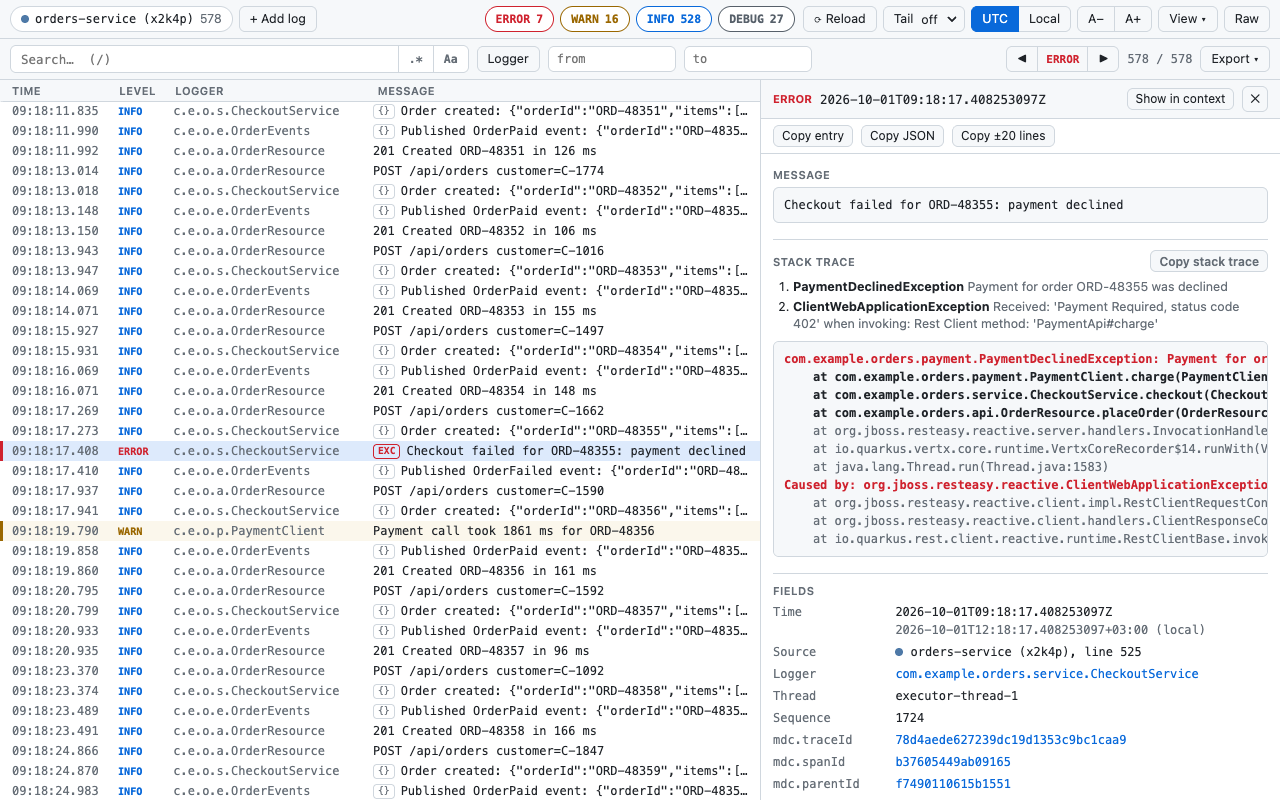
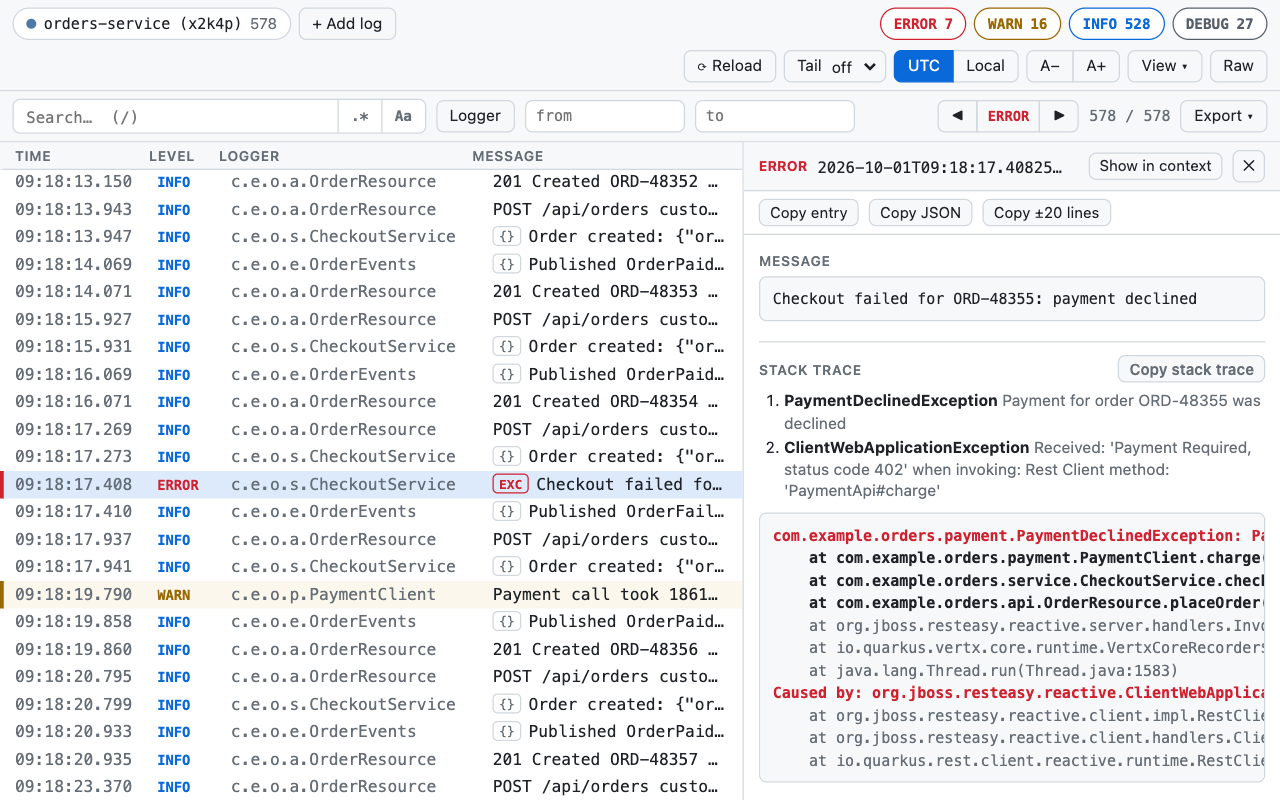
Apply Chrome Web Store best practices
- Strict extension CSP: default-src 'self', connect-src/object-src none;
  options page styles moved to options.css
- Validate runtime messages (own extension only, known actions,
  well-formed origin)
- Store icon follows the 96px artwork + 16px padding rule, with a light
  glow for dark backgrounds
- Five legible screenshots (1024x640 @1.25x), marquee 1400x560 and a
  brand-first small promo tile
- Fix: message column no longer collapses when the details panel is open
  and several sources are shown; fixed columns on phones
- Fix: details panel scrolls to top when another entry is selected
- PRIVACY.md: Chrome Web Store User Data Policy / Limited Use statement
- Store checklist: declare "Website content" (local handling must be
  disclosed), 2-Step Verification, review and Edge Add-ons notes

Changed region(s): [[0.0, 0.0, 1.0, 1.0]]

diff --git a/static/options.html b/static/options.html
@@ -5,32 +5,7 @@
     <meta name="viewport" content="width=device-width, initial-scale=1" />
     <meta name="color-scheme" content="light dark" />
     <title>LogPane – Options</title>
-    <style>
-      :root {
-        --bg: #ffffff; --fg: #1f2328; --dim: #656d76; --border: #d0d7de; --accent: #0969da; --err: #cf222e; --panel: #f6f8fa;
-      }
-      @media (prefers-color-scheme: dark) {
-        :root { --bg: #0d1117; --fg: #e6edf3; --dim: #8d96a0; --border: #30363d; --accent: #4493f8; --err: #f85149; --panel: #161b22; }
-      }
-      body { background: var(--bg); color: var(--fg); font: 14px/1.5 system-ui, -apple-system, "Segoe UI", sans-serif; margin: 0; }
-      main { max-width: 720px; margin: 0 auto; padding: 32px 16px; }
-      h1 { font-size: 20px; margin: 0 0 4px; }
-      h2 { font-size: 15px; margin: 28px 0 8px; }
-      p { margin: 6px 0; }
-      .dim { color: var(--dim); }
-      code { font: 12.5px ui-monospace, SFMono-Regular, Menlo, Consolas, monospace; background: var(--panel); padding: 1px 5px; border-radius: 4px; }
-      ul { list-style: none; padding: 0; margin: 0; border: 1px solid var(--border); border-radius: 8px; }
-      li { display: flex; align-items: center; justify-content: space-between; gap: 12px; padding: 8px 12px; }
-      li + li { border-top: 1px solid var(--border); }
-      form { display: flex; gap: 8px; margin-top: 12px; }
-      input { flex: 1; min-width: 0; font: inherit; color: inherit; background: var(--bg); border: 1px solid var(--border); border-radius: 6px; padding: 6px 10px; }
-      button { font: inherit; color: inherit; background: var(--panel); border: 1px solid var(--border); border-radius: 6px; padding: 5px 12px; cursor: pointer; }
-      button.primary { background: var(--accent); border-color: var(--accent); color: #fff; }
-      #pending { display: flex; align-items: center; justify-content: space-between; gap: 12px; padding: 12px; margin: 20px 0; border: 1px solid var(--accent); border-radius: 8px; }
-      #pending[hidden] { display: none; }
-      #status { min-height: 1.5em; margin-top: 12px; color: var(--dim); }
-      #status.error { color: var(--err); }
-    </style>
+    <link rel="stylesheet" href="options.css" />
   </head>
   <body>
     <main>

diff --git a/static/options.css b/static/options.css
@@ -1,0 +1,24 @@
+:root {
+  --bg: #ffffff; --fg: #1f2328; --dim: #656d76; --border: #d0d7de; --accent: #0969da; --err: #cf222e; --panel: #f6f8fa;
+}
+@media (prefers-color-scheme: dark) {
+  :root { --bg: #0d1117; --fg: #e6edf3; --dim: #8d96a0; --border: #30363d; --accent: #4493f8; --err: #f85149; --panel: #161b22; }
+}
+body { background: var(--bg); color: var(--fg); font: 14px/1.5 system-ui, -apple-system, "Segoe UI", sans-serif; margin: 0; }
+main { max-width: 720px; margin: 0 auto; padding: 32px 16px; }
+h1 { font-size: 20px; margin: 0 0 4px; }
+h2 { font-size: 15px; margin: 28px 0 8px; }
+p { margin: 6px 0; }
+.dim { color: var(--dim); }
+code { font: 12.5px ui-monospace, SFMono-Regular, Menlo, Consolas, monospace; background: var(--panel); padding: 1px 5px; border-radius: 4px; }
+ul { list-style: none; padding: 0; margin: 0; border: 1px solid var(--border); border-radius: 8px; }
+li { display: flex; align-items: center; justify-content: space-between; gap: 12px; padding: 8px 12px; }
+li + li { border-top: 1px solid var(--border); }
+form { display: flex; gap: 8px; margin-top: 12px; }
+input { flex: 1; min-width: 0; font: inherit; color: inherit; background: var(--bg); border: 1px solid var(--border); border-radius: 6px; padding: 6px 10px; }
+button { font: inherit; color: inherit; background: var(--panel); border: 1px solid var(--border); border-radius: 6px; padding: 5px 12px; cursor: pointer; }
+button.primary { background: var(--accent); border-color: var(--accent); color: #fff; }
+#pending { display: flex; align-items: center; justify-content: space-between; gap: 12px; padding: 12px; margin: 20px 0; border: 1px solid var(--accent); border-radius: 8px; }
+#pending[hidden] { display: none; }
+#status { min-height: 1.5em; margin-top: 12px; color: var(--dim); }
+#status.error { color: var(--err); }

diff --git a/src/entries/background.ts b/src/entries/background.ts
@@ -1,4 +1,4 @@
-import { AUTO_ORIGINS_KEY, AUTO_SCRIPT_ID, RAW_LOG_PATH, getAutoOrigins, originPattern } from './autoOrigins';
+import { AUTO_ORIGINS_KEY, AUTO_SCRIPT_ID, RAW_LOG_PATH, getAutoOrigins, normalizeOrigin, originPattern } from './autoOrigins';
 
 const TEXT_TYPES = ['text/plain', 'application/json', 'application/x-ndjson', 'application/jsonl'];
 
@@ -33,11 +33,12 @@ chrome.action.onClicked.addListener(async (tab) => {
   await openViewerTab();
 });
 
-chrome.runtime.onMessage.addListener((msg: { type?: string; origin?: string }) => {
-  if (msg?.type === 'lv-open-options') {
-    const query = msg.origin ? `?add=${encodeURIComponent(msg.origin)}` : '';
-    void chrome.tabs.create({ url: chrome.runtime.getURL(`options.html${query}`) });
-  }
+// Content scripts live in untrusted pages: accept only our own sender and a well-formed origin.
+chrome.runtime.onMessage.addListener((msg: { type?: unknown; origin?: unknown }, sender) => {
+  if (sender.id !== chrome.runtime.id || msg?.type !== 'lv-open-options') return;
+  const origin = typeof msg.origin === 'string' ? normalizeOrigin(msg.origin) : null;
+  const query = origin ? `?add=${encodeURIComponent(origin)}` : '';
+  void chrome.tabs.create({ url: chrome.runtime.getURL(`options.html${query}`) });
 });
 
 /** Keeps the registered content script in sync with the enabled (and still permitted) origins. */

diff --git a/src/ui/LogList.tsx b/src/ui/LogList.tsx
@@ -22,14 +22,18 @@ export interface ListApi {
 
 const OVERSCAN = 12;
 
-export function gridTemplate(cols: Columns, withDate: boolean): string {
+/**
+ * Source / logger / thread shrink before the message does, so the message keeps at least 24ch.
+ * `narrow` (phones) uses fixed columns and lets the message take whatever is left.
+ */
+export function gridTemplate(cols: Columns, withDate: boolean, narrow = false): string {
   return [
     withDate ? '19ch' : '13ch',
     '6ch',
-    cols.source ? '26ch' : '',
-    cols.logger ? '26ch' : '',
-    cols.thread ? '20ch' : '',
-    'minmax(0, 1fr)',
+    cols.source ? (narrow ? '16ch' : 'minmax(10ch, 26ch)') : '',
+    cols.logger ? (narrow ? '20ch' : 'minmax(10ch, 26ch)') : '',
+    cols.thread ? (narrow ? '14ch' : 'minmax(8ch, 20ch)') : '',
+    narrow ? 'minmax(0, 1fr)' : 'minmax(24ch, 1fr)',
   ].filter(Boolean).join(' ');
 }
 

diff --git a/src/entries/content.ts b/src/entries/content.ts
@@ -54,8 +54,8 @@ async function main(): Promise<void> {
   });
   void store.addText({ label, kind: 'page', url: location.href }, text);
 
-  chrome.runtime.onMessage.addListener((msg: { type?: string }) => {
-    if (msg?.type === 'lv-toggle') toggleRaw();
+  chrome.runtime.onMessage.addListener((msg: { type?: unknown }, sender) => {
+    if (sender.id === chrome.runtime.id && msg?.type === 'lv-toggle') toggleRaw();
   });
 }
 

diff --git a/src/ui/DetailsPanel.tsx b/src/ui/DetailsPanel.tsx
@@ -62,7 +62,7 @@ export function DetailsPanel(props: {
         <CopyButton label={`Copy ±${props.contextLines} lines`} title="Copy this entry with surrounding lines (unfiltered)" onCopy={() => props.onCopy('context')} />
       </div>
 
-      <div class="lv-details-body">
+      <div class="lv-details-body" key={`${e.sourceId}:${e.lineNo}`}>
         <section>
           <h3>Message</h3>
           {embedded ? (

diff --git a/src/ui/App.tsx b/src/ui/App.tsx
@@ -349,6 +349,7 @@ export function App(props: AppProps) {
     '--lv-font': `${settings.fontSize}px`,
     '--lv-row-h': `${rowHeight}px`,
     '--lv-cols': gridTemplate(cols, withDate),
+    '--lv-cols-narrow': gridTemplate(cols, withDate, true),
     '--lv-details-w': `${detailsWidth}px`,
   };
 

diff --git a/src/ui/viewer.css b/src/ui/viewer.css
@@ -813,6 +813,12 @@ mark.lv-hit {
   margin-bottom: 6px;
 }
 
+@media (max-width: 700px) {
+  .lv-row {
+    grid-template-columns: var(--lv-cols-narrow);
+  }
+}
+
 @media (max-width: 900px) {
   .lv-details {
     position: absolute;

diff --git a/store/listing.md b/store/listing.md
@@ -67,12 +67,16 @@ Supported formats, for reference:
 
 | File | Use | Size |
 | --- | --- | --- |
-| `../static/icons/icon128.png` | Store icon | 128×128 |
-| `screenshot-1-stack-trace.png` | Screenshot: error with readable stack trace | 1280×800 |
-| `screenshot-2-trace-across-services.png` | Screenshot: one trace across two services, JSON payload (dark) | 1280×800 |
-| `screenshot-3-search-filter.png` | Screenshot: search + ERROR/WARN filter across two logs | 1280×800 |
-| `screenshot-4-file-viewer.png` | Screenshot: local file viewer | 1280×800 |
-| `promo-small-440x280.png` | Small promo tile | 440×280 |
+| `../static/icons/icon128.png` | Store icon (96×96 artwork, 16 px transparent padding) | 128×128 |
+| `screenshot-1-stack-trace.png` | Error with a readable stack trace | 1280×800 |
+| `screenshot-2-trace-across-services.png` | One trace across two services, JSON payload (dark) | 1280×800 |
+| `screenshot-3-search-filter.png` | Search + ERROR/WARN filter across two logs | 1280×800 |
+| `screenshot-4-add-log.png` | Adding another log (file / URL / paste) | 1280×800 |
+| `screenshot-5-file-viewer.png` | Local file viewer | 1280×800 |
+| `promo-small-440x280.png` | Small promo tile (required for good placement) | 440×280 |
+| `promo-marquee-1400x560.png` | Marquee promo tile (optional, needed for marquee features) | 1400×560 |
+
+Screenshots are rendered at 1.25× from a 1024×640 layout, so text stays readable when the store shows them at 640×400.
 
 ## Privacy practices tab
 
@@ -89,10 +93,14 @@ Supported formats, for reference:
 
 **Remote code:** No, I am not using remote code. All JavaScript is bundled in the package.
 
-**Data usage:** LogPane does not collect or transmit user data. Log text is processed in memory, on the device only, and is never sent anywhere. In the data-type checklist, tick nothing. If a reviewer asks, explain that "website content" is read locally only and never leaves the browser. Then tick all three certifications:
-- not sold to third parties;
-- not used for unrelated purposes;
-- not used for creditworthiness.
+**Data usage:** the User Data FAQ requires disclosing user data even when it is processed only locally ("Extensions are required to disclose how they handle user data, even when data is processed or stored locally"). Page and file text count as user data, so:
+- Tick **Website content** only. That is the log text LogPane reads from the current page or from files you open.
+- Leave everything else unticked: personally identifiable info, health, financial, authentication, personal communications, location, web history, user activity.
+- Tick all three certifications:
+  - I do not sell or transfer user data to third parties, outside of the approved use cases.
+  - I do not use or transfer user data for purposes that are unrelated to my item's single purpose.
+  - I do not use or transfer user data to determine creditworthiness or for lending purposes.
+- Reviewer note, if asked: "Log text is read only to display it. It is processed in memory in the tab and never transmitted or stored. Extension pages enforce `connect-src 'none'`."
 
 **Privacy policy URL:** `https://github.com/dovius/LogPane/blob/main/PRIVACY.md`
 
@@ -110,6 +118,8 @@ Supported formats, for reference:
 
 **Developer account** (Chrome Web Store dashboard)
 - [ ] Register with a personal Google account. Use a personal contact email; it is shown to users.
+- [ ] Turn on 2-Step Verification (mandatory for publishing), ideally with a security key.
+- [ ] Verify the contact email. Enforcement notices go there.
 - [ ] Pay the one-time registration fee.
 - [ ] Trader declaration (EU Digital Services Act): a free, non-commercial open-source hobby project is normally **non-trader**. Declare "trader" only if you sell it or use it professionally to make money. A trader's name, address and contact are published.
 
@@ -117,3 +127,12 @@ Supported formats, for reference:
 - [ ] `npm ci && npm test && npm run zip` → upload `logpane-extension.zip`. It includes `LICENSE` and `THIRD_PARTY_LICENSES.txt` (Preact, MIT).
 - [ ] Fill in the privacy practices tab as above. Use the description with the trademark notice at the end.
 - [ ] Optionally replace `LogPane contributors` in `LICENSE` with your name.
+
+**Review**
+- Expect a longer, in-depth review: `optional_host_permissions` covers all sites (`https://*/*`, `http://*/*`). They are only requested per domain at runtime; say so in the host permission justification.
+- Before uploading, test the zip in a clean Chrome profile: Load unpacked → Raw page → toolbar button → options → add a domain → auto-open.
+- Distribution: keep "Public" and all regions. Visibility can start as "Unlisted" for a soft launch.
+
+**After publishing**
+- The same zip can be submitted to Microsoft Edge Add-ons (partner.microsoft.com). No code changes are needed.
+- Every update needs a higher `version` in `static/manifest.json` (and `package.json`).

diff --git a/PRIVACY.md b/PRIVACY.md
@@ -40,6 +40,13 @@ Network access is also blocked technically:
 
 Log content, search terms, filters and log URLs are **never** stored.
 
+## Chrome Web Store User Data Policy
+
+LogPane's use of the data it handles complies with the [Chrome Web Store User Data Policy](https://developer.chrome.com/docs/webstore/program-policies/user-data-faq), including the [Limited Use](https://developer.chrome.com/docs/webstore/program-policies/limited-use) requirements.
+
+- Log text ("website content") is used only to display it to you. That is LogPane's single purpose.
+- It is never transferred, sold, used for advertising or creditworthiness, or read by humans.
+
 ## What LogPane does not do
 
 - No analytics, telemetry, crash reporting or tracking SDKs.
